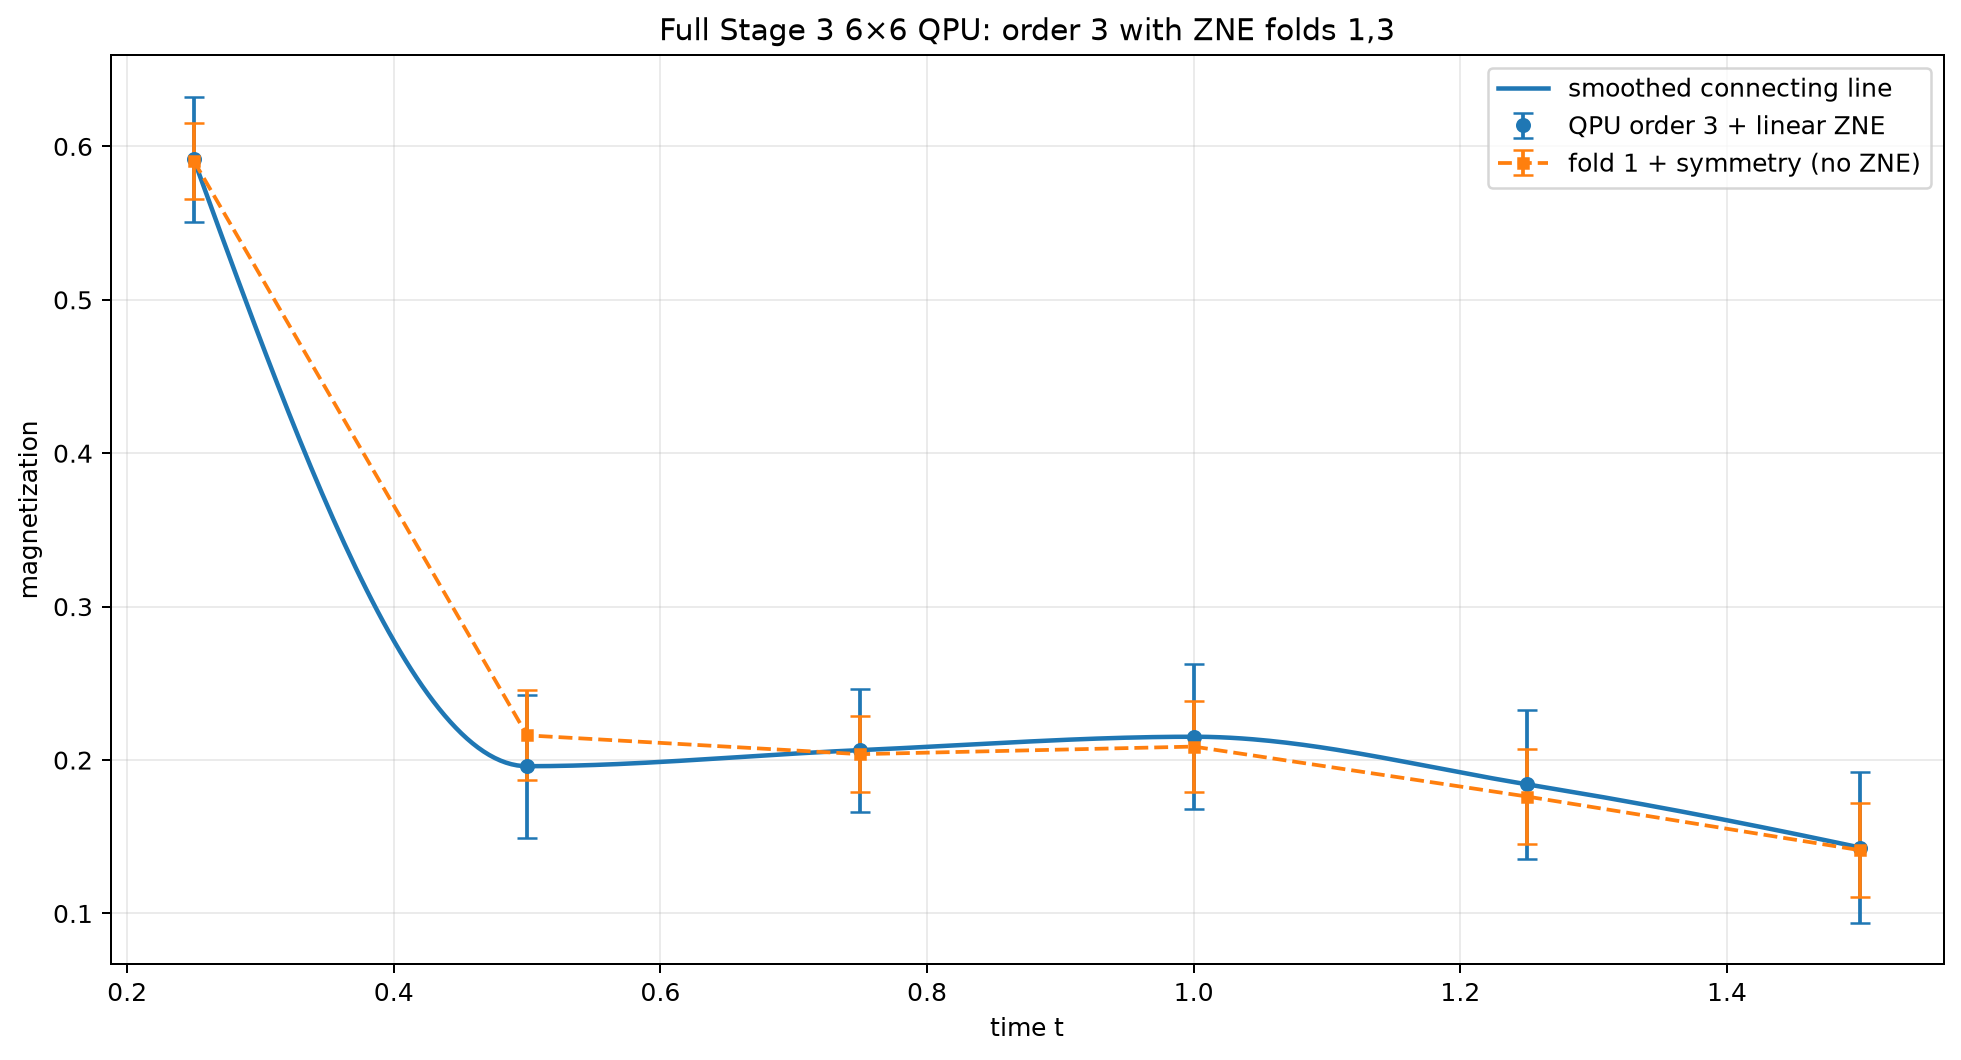
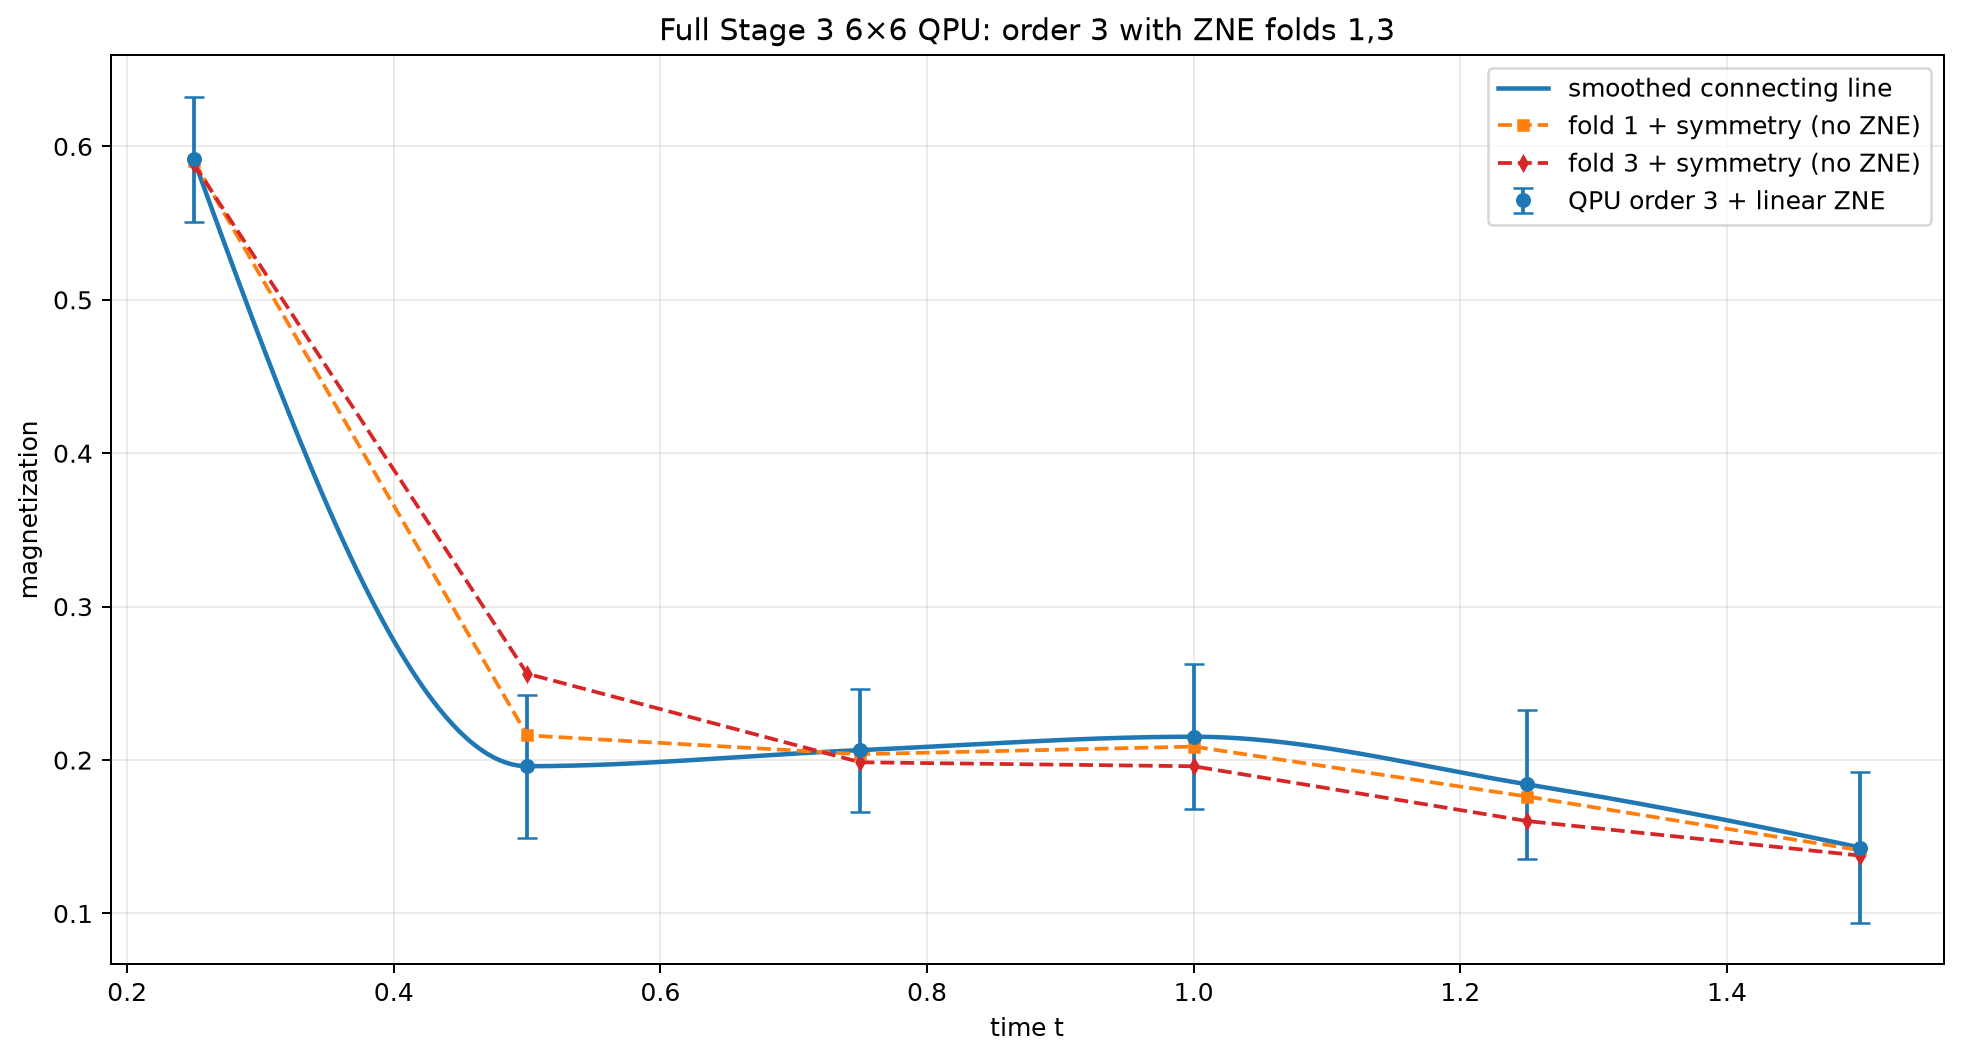
chore: commit final images

diff --git a/validation/plot_stage3_qpu_order3.py b/validation/plot_stage3_qpu_order3.py
@@ -57,6 +57,7 @@ def main() -> None:
     zne_values = fold_values @ weights
     zne_errors = np.sqrt(np.sum((fold_errors * weights) ** 2, axis=1))
     fold1_values = fold_values[:, 0]
+    fold3_values = fold_values[:, 1]
     fold1_errors = fold_errors[:, 0]
     # Display/report uncertainties conservatively at twice the shot-noise SE.
     displayed_zne_errors = 2.0 * zne_errors
@@ -76,6 +77,8 @@ def main() -> None:
         "zne_errors": displayed_zne_errors.tolist(),
         "fold1_values": fold1_values.tolist(),
         "fold1_errors": displayed_fold1_errors.tolist(),
+        "fold3_values": fold3_values.tolist(),
+        "fold3_errors": (2.0 * fold_errors[:, 1]).tolist(),
         "retained_fraction": [
             [grouped[index][fold]["retained_fraction"] for fold in (1, 3)]
             for index in range(len(times))
@@ -109,11 +112,10 @@ def main() -> None:
     )
     axis.plot(dense_times, smooth, color="tab:blue", linewidth=1.8,
               label="smoothed connecting line")
-    axis.errorbar(
-        times, fold1_values, yerr=displayed_fold1_errors, fmt="s--",
-        color="tab:orange", capsize=4, markersize=4,
-        label="fold 1 + symmetry (no ZNE)",
-    )
+    axis.plot(times, fold1_values, "s--", color="tab:orange", markersize=4,
+              label="fold 1 + symmetry (no ZNE)")
+    axis.plot(times, fold3_values, "d--", color="tab:red", markersize=4,
+              label="fold 3 + symmetry (no ZNE)")
     axis.set_title("Full Stage 3 6×6 QPU: order 3 with ZNE folds 1,3")
     axis.set_xlabel("time t")
     axis.set_ylabel("magnetization")
